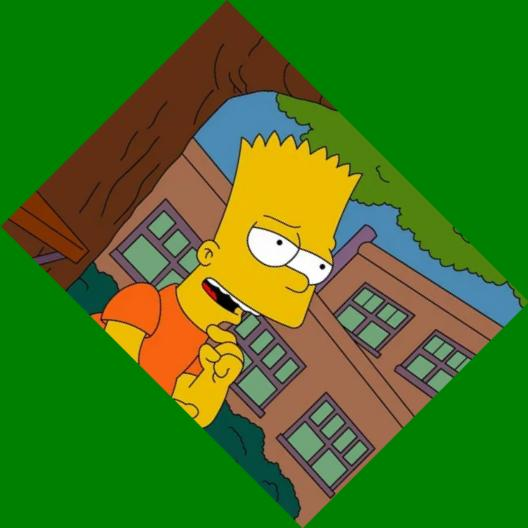
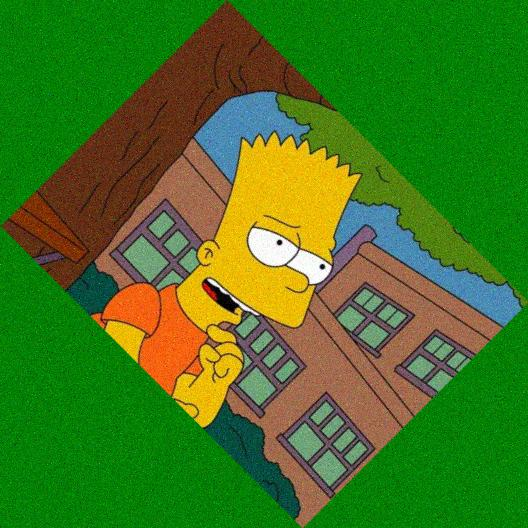
testing buffers

diff --git a/render/index.js b/render/index.js
@@ -1,10 +1,19 @@
-console.log("hello world");
+const fs = require('fs');
+const gm = require('gm');
 
-var fs = require('fs')
-  , gm = require('gm');
+const picture = fs.readFileSync('./1.webp');
 
-gm('./1.webp')
+
+gm(picture)
 .rotate('green', 45)
+.noise('laplacian')
 .write('./crazy.jpg', function (err) {
   if (!err) console.log('crazytown has arrived');
+})
+
+gm(picture)
+.rotate('red', 0)
+.noise('laplacian')
+.write('./crazy2.jpg', function (err) {
+  if (!err) console.log('crazytown2 has arrived');
 })
